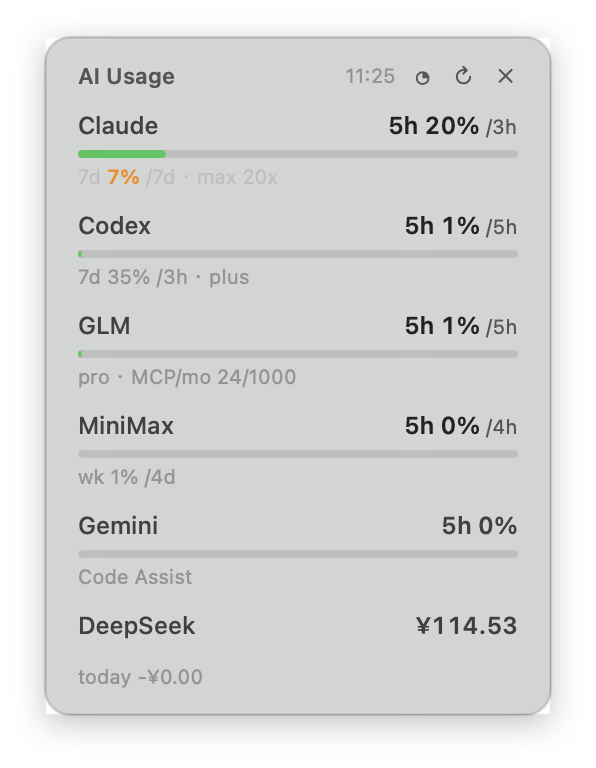
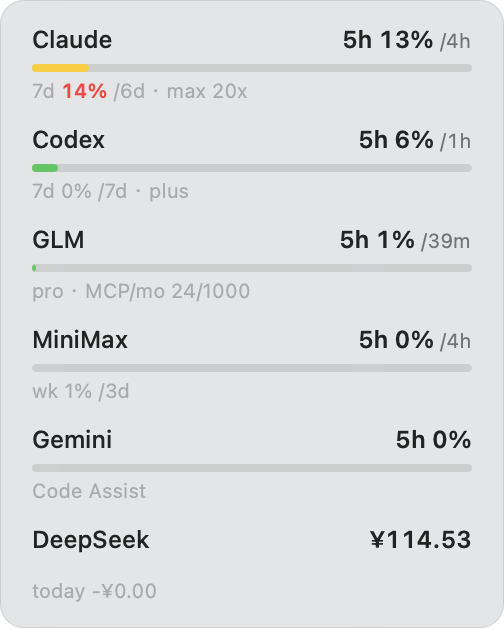
Hover-only chrome: title bar grows out of the top edge on hover
At rest the panel is pure content (rings/rows) — no title, clock or
buttons. Hovering expands the window upward (bottom edge anchored, so
content never moves on screen) and fades the title bar in; it retracts
when the mouse leaves. Falls back to expanding downward when there is
no room above, clamped to the visible screen.

Hard-won details, all empirically verified:
- layoutPanel must read the old frame and measure fittingSize BEFORE
  any layoutIfNeeded: constraint changes otherwise trigger an implicit
  AutoLayout window resize with an uncontrollable anchor (symptom: the
  panel crept downward on every hover)
- alpha=0 views are still clickable, so the header is truly hidden only
  after the fade-out completes
- quit (x) collapses the header first, otherwise frame autosave
  persists the hover-expanded frame and the panel walks up ~26px per
  relaunch
- hover is ignored until the first payload arrives (restored frame
  height does not yet match content), and a re-enter during the 150ms
  fade-out no longer clobbers the expand-direction flag

Also: auto-refresh every 60s (was 300s); refreshed README screenshots.

diff --git a/UsageMonitor.swift b/UsageMonitor.swift
@@ -37,8 +37,22 @@ func pctColor(_ pct: Double) -> NSColor {
 }
 
 // 容器: 强制箭头光标 (NSTextField 会显 I-beam) + 圆角裁切;
-// 毛玻璃作为子层独立调透明度, 不影响其上的文字
+// 毛玻璃作为子层独立调透明度, 不影响其上的文字;
+// 跟踪鼠标进出 (悬停时才显示标题栏按钮)
 final class PanelBackground: NSView {
+    var onHover: ((Bool) -> Void)?
+
+    override func updateTrackingAreas() {
+        super.updateTrackingAreas()
+        trackingAreas.forEach(removeTrackingArea)
+        // .inVisibleRect: 面板伸缩时跟踪区自动跟随 bounds
+        addTrackingArea(NSTrackingArea(rect: .zero,
+            options: [.mouseEnteredAndExited, .activeAlways, .inVisibleRect],
+            owner: self, userInfo: nil))
+    }
+    override func mouseEntered(with event: NSEvent) { onHover?(true) }
+    override func mouseExited(with event: NSEvent) { onHover?(false) }
+
     override func resetCursorRects() {
         discardCursorRects()
         addCursorRect(bounds, cursor: .arrow)
@@ -230,6 +244,9 @@ final class App: NSObject, NSApplicationDelegate {
     let ringStack = NSStackView()   // 圆环模式容器 (3 列网格)
     let titleLabel = NSTextField(labelWithString: "AI Usage")
     let updatedLabel = NSTextField(labelWithString: "")
+    var header: NSStackView!
+    var hovered = false
+    var headerGrewDown = false   // 本次标题栏展开是否被迫向下 (收起时按原方向回退)
     var modeBtn: NSButton!
     var rows: [String: RowView] = [:]
     var ringCells: [String: RingCell] = [:]
@@ -283,11 +300,16 @@ final class App: NSObject, NSApplicationDelegate {
         let refreshBtn = NSButton(title: "↻", target: self, action: #selector(doRefresh))
         refreshBtn.isBordered = false
         refreshBtn.font = .systemFont(ofSize: 11)
-        let quit = NSButton(title: "✕", target: NSApp, action: #selector(NSApplication.terminate(_:)))
+        let quit = NSButton(title: "✕", target: self, action: #selector(quitApp))
         quit.isBordered = false
         quit.font = .systemFont(ofSize: 10)
-        let header = NSStackView(views: [titleLabel, NSView(), updatedLabel, modeBtn, refreshBtn, quit])
+        // 标题栏平时整体隐藏 (毛玻璃只包住内容), 悬停时窗口向上长出一截放标题:
+        // 内容在屏幕上原地不动, 毛玻璃随窗口一起延伸, 标题文字淡入
+        header = NSStackView(views: [titleLabel, NSView(), updatedLabel, modeBtn, refreshBtn, quit])
         header.orientation = .horizontal
+        header.isHidden = true
+        header.alphaValue = 0
+        container.onHover = { [weak self] inside in self?.setHovered(inside) }
 
         stack.orientation = .vertical
         stack.alignment = .leading
@@ -324,10 +346,50 @@ final class App: NSObject, NSApplicationDelegate {
         panel.setFrameAutosaveName("UsageMonitor")
         panel.orderFrontRegardless()
         refresh()
-        Timer.scheduledTimer(withTimeInterval: 300, repeats: true) { _ in self.refresh() }
+        Timer.scheduledTimer(withTimeInterval: 60, repeats: true) { _ in self.refresh() }
     }
 
     @objc func doRefresh() { refresh() }
+
+    // ✕ 总是在悬停展开态被点到: 先收起再退出, 否则 autosave 存下展开 frame,
+    // 下次启动按顶边收缩会让面板每次重启上移一截
+    @objc func quitApp() {
+        if !header.isHidden {
+            header.isHidden = true
+            layoutPanel(anchorTop: false)   // 按 headerGrewDown 原方向对称回退
+        }
+        NSApp.terminate(nil)
+    }
+
+    // 悬停显隐标题栏: 窗口向上长出一截放标题 (内容原地不动, 不遮挡内容);
+    // 窗口瞬时变尺寸 (无缩放动画 → 无重影), 标题文字淡入/淡出
+    func setHovered(_ inside: Bool) {
+        guard inside != hovered else { return }
+        // 首批数据未到时面板还是恢复的旧尺寸 (空内容), 此时展开会按错误高度计算
+        guard last != nil else { return }
+        hovered = inside
+        if inside {
+            // 淡出中途重入: header 还可见、窗口仍展开着, 不能重复 layout
+            // (否则等高情形会走收起分支把 headerGrewDown 清掉)
+            if header.isHidden {
+                header.isHidden = false
+                layoutPanel(anchorTop: false)
+            }
+            NSAnimationContext.runAnimationGroup { ctx in
+                ctx.duration = 0.15
+                self.header.animator().alphaValue = 1
+            }
+        } else {
+            NSAnimationContext.runAnimationGroup({ ctx in
+                ctx.duration = 0.15
+                self.header.animator().alphaValue = 0
+            }, completionHandler: { [weak self] in
+                guard let self, !self.hovered else { return }
+                self.header.isHidden = true
+                self.layoutPanel(anchorTop: false)
+            })
+        }
+    }
 
     @objc func toggleMode() {
         mode = mode == "ring" ? "list" : "ring"
@@ -361,19 +423,48 @@ final class App: NSObject, NSApplicationDelegate {
         // NSStackView 自动把 hidden 的 arranged subview 移出布局
         listStack.isHidden = ring
         ringStack.isHidden = !ring
+        layoutPanel(anchorTop: true)
+    }
+
+    // 按当前模式与标题栏显隐重算面板尺寸.
+    // anchorTop=true: 顶边固定向下伸缩 (切换视图/数据更新, 历史行为);
+    // anchorTop=false: 底边固定向上伸缩 (悬停标题栏, 内容在屏幕上原地不动),
+    //                  上方空间不足时退回顶边固定向下展开, 收起按原方向回退
+    func layoutPanel(anchorTop: Bool) {
+        let ring = mode == "ring"
         // 圆环模式 = 单行迷你条: 内容更窄, 边距收紧
         headerW.constant = ring ? ringW : contentW
         insets[0].constant = ring ? 8 : 12
         insets[1].constant = ring ? 12 : 16
         insets[2].constant = ring ? -12 : -16
         insets[3].constant = ring ? -8 : -12
-        panel.layoutIfNeeded()
+        // 注意: 不能先 layoutIfNeeded —— 约束变化会让 AutoLayout 抢先隐式改窗口
+        // 尺寸 (锚点不可控), 再读 frame 就错了, 表现为悬停一次窗口下移一截;
+        // 必须 读旧 frame → fittingSize 纯测量 → 显式 setFrame → 最后布局
         var f = panel.frame
         let top = f.maxY
-        f.size.height = stack.fittingSize.height + (ring ? 16 : 24)
+        let newH = stack.fittingSize.height + (ring ? 16 : 24)
+        var keepTop = anchorTop
+        if !anchorTop {
+            if newH > f.height {          // 展开: 上方放不下则向下
+                let screenTop = (panel.screen ?? NSScreen.main)?.visibleFrame.maxY ?? f.maxY
+                headerGrewDown = newH - f.height > screenTop - f.maxY
+                keepTop = headerGrewDown
+            } else if newH < f.height {   // 收起: 与展开方向对称
+                keepTop = headerGrewDown
+                headerGrewDown = false
+            }                             // 等高 = 无操作, 保留方向标记
+        }
+        f.size.height = newH
         f.size.width = ring ? ringW + 24 : contentW + 32
-        f.origin.y = top - f.size.height
+        if keepTop { f.origin.y = top - newH }
+        if let vis = (panel.screen ?? NSScreen.main)?.visibleFrame {
+            // 上下都放不下时兜底: 底边别压进 Dock; 切换视图变宽时右缘不出屏
+            if !anchorTop, f.origin.y < vis.minY { f.origin.y = vis.minY }
+            if f.maxX > vis.maxX { f.origin.x = vis.maxX - f.width }
+        }
         panel.setFrame(f, display: true)
+        panel.layoutIfNeeded()
     }
 
     func renderList(_ payload: Payload) {

diff --git a/README.md b/README.md
@@ -12,7 +12,7 @@ Figuring out *"which AI should I use right now"* shouldn't be a query task — i
 
 - **Availability, not usage.** Raw percentages don't carry a decision. The panel shows what's left and how long until it comes back (adaptive single-unit countdowns: `3d`, `4h`, `45m`), and pace-based colors answer the only question that matters: *at this burn rate, will the window survive until reset?* Green = go ahead, red = ease off.
 - **Visual hierarchy mirrors information hierarchy.** The 5h window is what you act on — big, bold, bar / outer ring. Countdowns are smaller and dimmer. Weekly windows, MCP quotas and plan tiers are fine print / thinner inner rings. No icons, no decoration.
-- **Ambient, not an app.** Always-on-top vibrancy panel, no Dock icon, never steals focus, auto-refreshes, remembers its position and view mode. Like the menu-bar clock: always there, always current, never managed.
+- **Ambient, not an app.** Always-on-top vibrancy panel, no Dock icon, never steals focus, auto-refreshes, remembers its position and view mode. All chrome (title, clock, buttons) stays hidden until you hover — at rest it's nothing but the data. Like the menu-bar clock: always there, always current, never managed.
 - **Zero maintenance.** Credentials are reused from the CLIs you already log into; expired OAuth tokens refresh themselves. Install it, then forget it exists — except for the colors.
 
 **Six subscriptions, one glance, zero maintenance.**
@@ -23,7 +23,8 @@ Figuring out *"which AI should I use right now"* shouldn't be a query task — i
 - **Self-healing OAuth**: expired Codex / Gemini access tokens are silently refreshed via their refresh tokens and written back — no more re-running CLIs just to query usage.
 - **Pace coloring**: window color reflects burn rate vs. reset time (green = sustainable … red = will exhaust before reset), same algorithm as the Claude Code statusline.
 - **Two complementary views**, deliberately different: the **list** carries the numbers (exact percentages, reset countdowns, plan & quota fine print); the **ring strip** is a compact single-row, pure-graphic glance at your top-4 providers — arcs and pace colors only (outer = 5h window, inner = 7d/weekly, smallest = monthly MCP quota), hover for details. Toggle with `◔`/`☰`; mode and window position persist.
-- Native NSPanel + vibrancy, no Dock icon, auto-refresh every 5 min, `↻` for manual refresh, hover for details.
+- **Hover-only chrome**: at rest the panel is just rings/rows; hovering grows a title bar out of the top edge (content never moves) with clock, view toggle `◔`/`☰`, refresh `↻` and quit `✕` — it retracts when the mouse leaves.
+- Native NSPanel + vibrancy, no Dock icon, auto-refresh every minute, `↻` for manual refresh, hover for details.
 
 ## Install
 